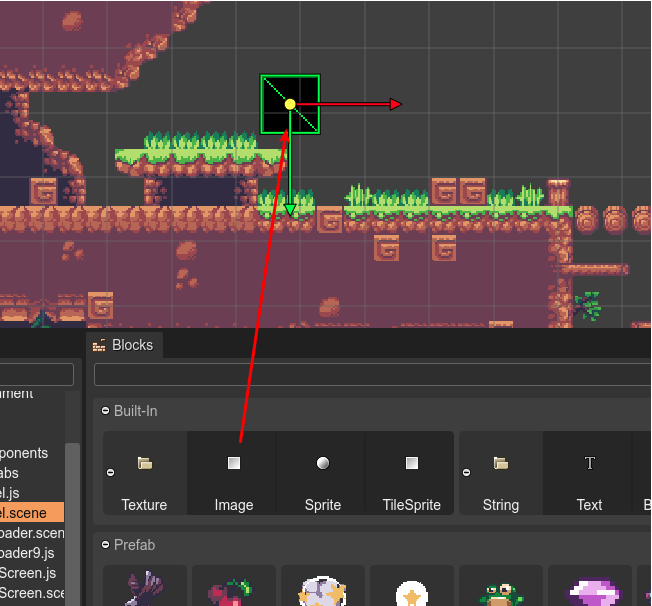
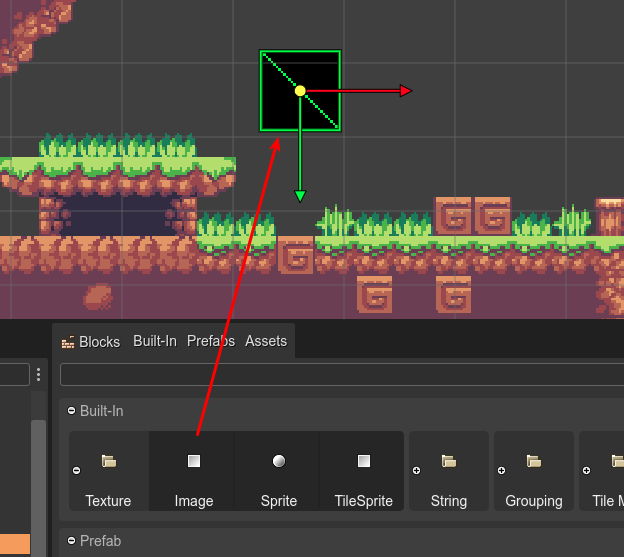
Blocks view sections.

diff --git a/scene-editor/blocks-view-integration.rst b/scene-editor/blocks-view-integration.rst
@@ -28,3 +28,13 @@ If you drop a Prefab_, the editor creates an instance of it.
 
 .. image:: ../images/scene-editor-blocks-view-02242021.webp
  :alt: Blocks view.
+
+The context menu shows different options for grouping the assets: by type, by Asset Pack file, and by file location:
+
+.. image:: ../images/scene-editor-blocks-view-grouping-02282021.webp
+    :alt: Grouping the assets.
+
+Also, the Blocks view's tab, shows "tab sections" which you can select for filtering the content:
+
+.. image:: ../images/scene-editor-blocks-view-tab-section-03012021.webp
+    :alt: Select different tab-sections for filtering content.
